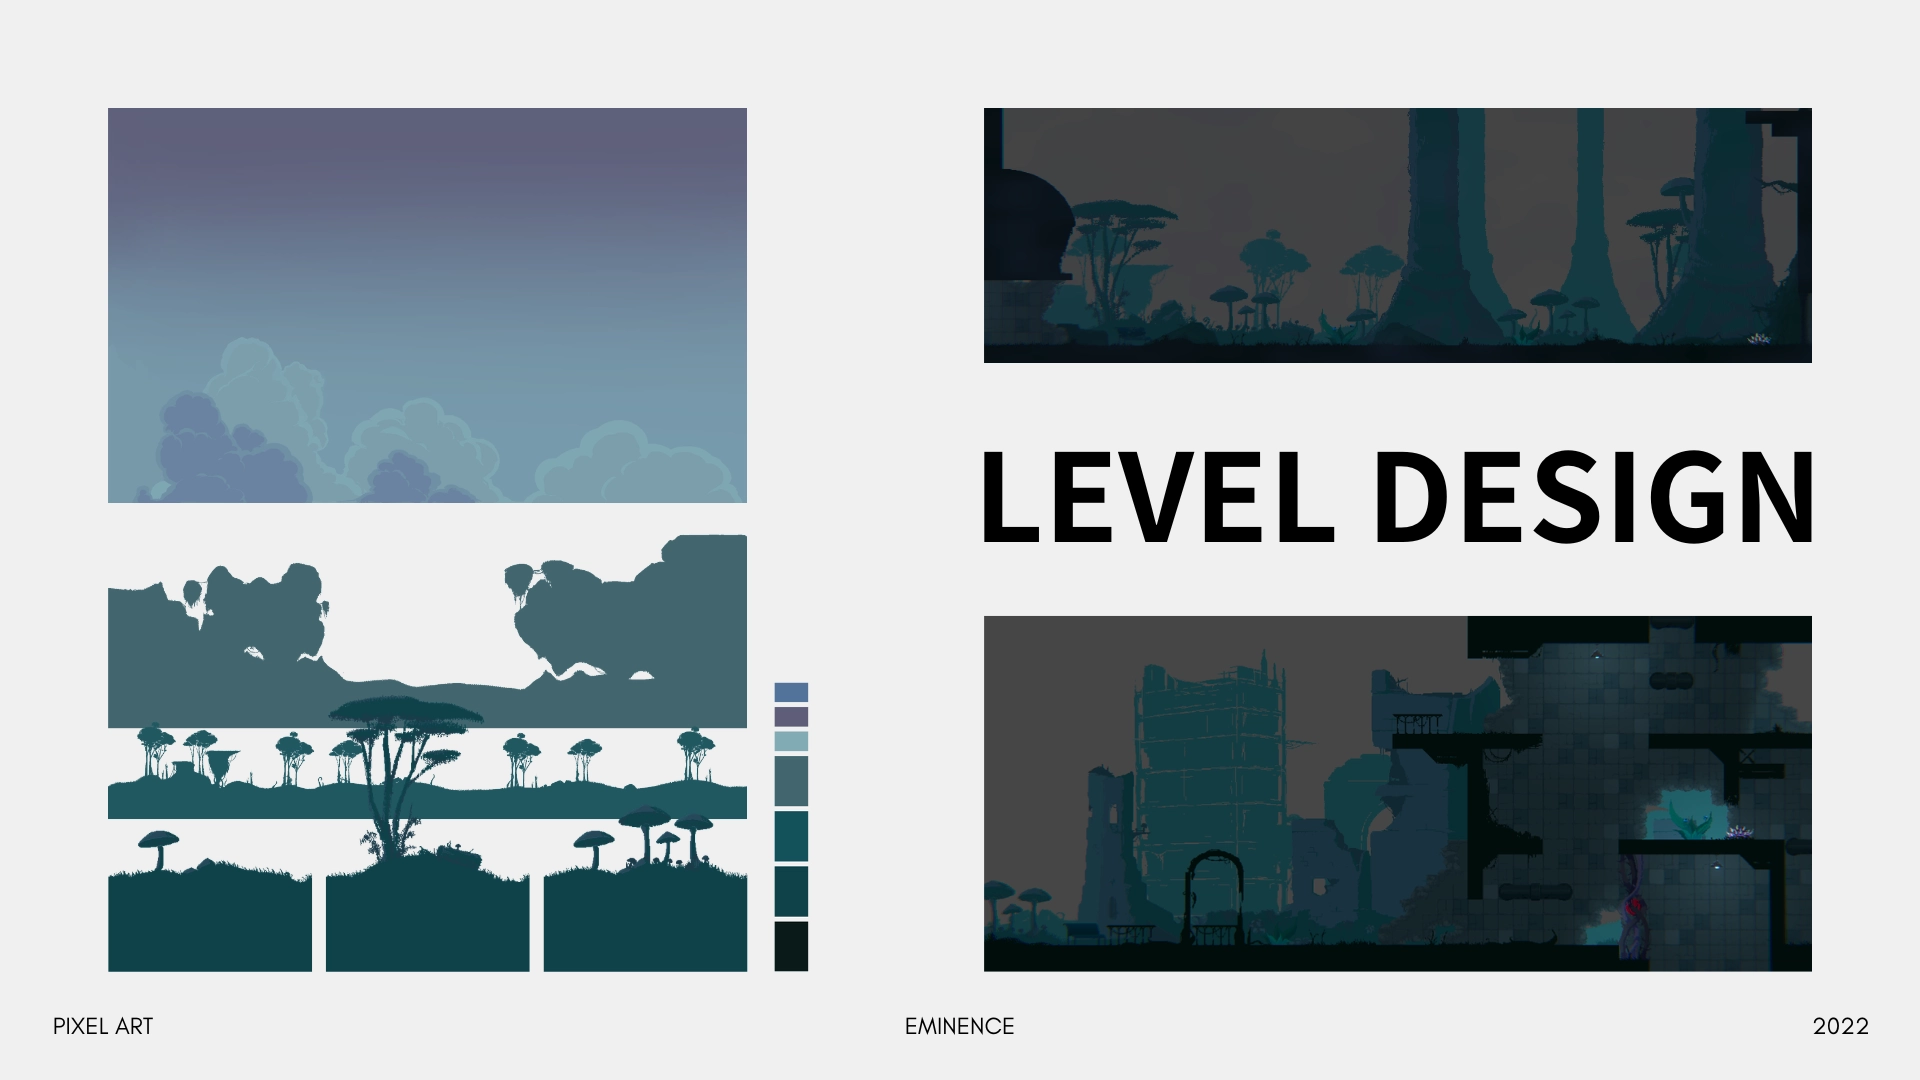
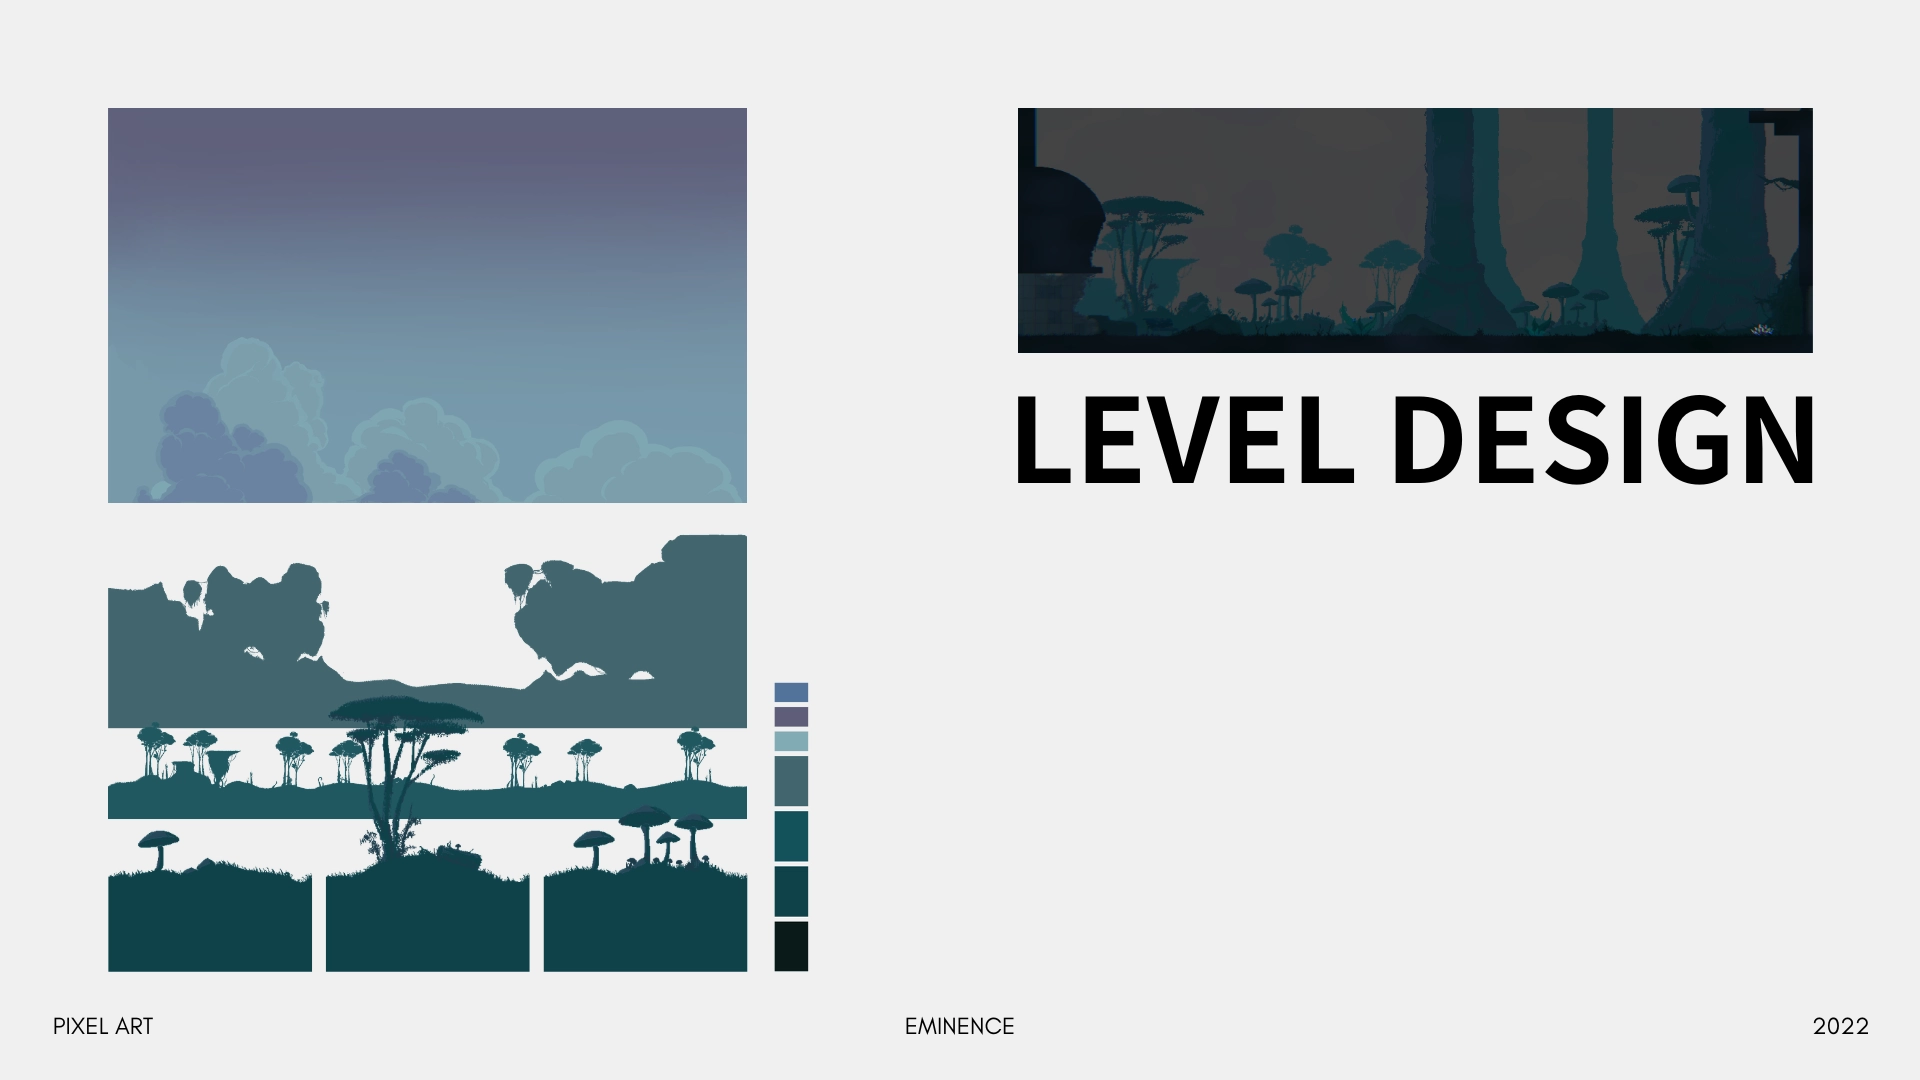
pixel art 更新

diff --git a/src/components/Pixelart.jsx b/src/components/Pixelart.jsx
@@ -32,6 +32,8 @@ const ppts = Object.entries(
 import dn1 from "../assets/other/dn-1.png";
 import dn2 from "../assets/other/dn-2.png";
 import EminenceAni from "../assets/Eminence/Eminence-CharaAni.png";
+import Parallax1 from "../assets/Eminence/Eminence-Para1.webm";
+import Parallax1Mp4 from "../assets/Eminence/Eminence-Para1.mp4";
 
 import CannonAnimation from "../assets/Moonwalk/CannonAni.png";
 import BlackholeAnimation from "../assets/Moonwalk/BlackholeAni.png";
@@ -143,9 +145,50 @@ export default function Pixelart() {
               <FadeUp>
                 <div className="group relative aspect-video overflow-hidden rounded-3xl border border-white/10 bg-white/5">
                   {/* 整個 scene 一起 scale */}
+                  <div className="absolute inset-0 transition duration-300 group-hover:scale-110">
+                    <img src={ppts[0]} className="h-full w-full object-cover" />
+                  </div>
+                </div>
+              </FadeUp>
+              <FadeUp>
+                <div className="group relative aspect-video overflow-hidden rounded-3xl border border-white/10 bg-white/5">
+                  {/* 整個 scene 一起 scale */}
+                  <div className="absolute inset-0 transition duration-300 group-hover:scale-110">
+                    <img src={ppts[1]} className="h-full w-full object-cover" />
+                  </div>
+                </div>
+              </FadeUp>
+              <FadeUp>
+                <div className="group relative aspect-video overflow-hidden rounded-3xl border border-white/10 bg-white/5">
+                  {/* 整個 scene 一起 scale */}
+                  <div className="absolute inset-0 transition duration-300 group-hover:scale-110">
+                    <img src={ppts[2]} className="h-full w-full object-cover" />
+                  </div>
+                </div>
+              </FadeUp>
+              <FadeUp>
+                <div className="group relative aspect-video overflow-hidden rounded-3xl border border-white/10 bg-white/5">
+                  {/* 整個 scene 一起 scale */}
+                  <div className="absolute inset-0 transition duration-300 group-hover:scale-110">
+                    <img src={ppts[3]} className="h-full w-full object-cover" />
+                  </div>
+                </div>
+              </FadeUp>
+              <FadeUp>
+                <div className="group relative aspect-video overflow-hidden rounded-3xl border border-white/10 bg-white/5">
+                  {/* 整個 scene 一起 scale */}
+                  <div className="absolute inset-0 transition duration-300 group-hover:scale-110">
+                    <img src={ppts[4]} className="h-full w-full object-cover" />
+                  </div>
+                </div>
+              </FadeUp>
+
+              <FadeUp>
+                <div className="group relative aspect-video overflow-hidden rounded-3xl border border-white/10 bg-white/5">
+                  {/* 整個 scene 一起 scale */}
                   <div className="absolute inset-0">
                     {/* 背景 */}
-                    <img src={ppts[0]} className="h-full w-full object-cover" />
+                    <img src={ppts[5]} className="h-full w-full object-cover" />
 
                     {/* overlay */}
                     <div className="absolute left-1/2 top-1/2 flex w-[61%] -translate-x-1/2 -translate-y-1/2 flex-row transition duration-300 group-hover:scale-[165%]">
@@ -160,7 +203,7 @@ export default function Pixelart() {
                   {/* 整個 scene 一起 scale */}
                   <div className="absolute inset-0 transition duration-300 group-hover:scale-110">
                     {/* 背景 */}
-                    <img src={ppts[1]} className="h-full w-full object-cover" />
+                    <img src={ppts[6]} className="h-full w-full object-cover" />
 
                     {/* overlay */}
                     <div className="absolute bottom-[10%] left-1/2 flex h-[80%] flex-row">
@@ -177,7 +220,7 @@ export default function Pixelart() {
                 <div className="group relative aspect-video overflow-hidden rounded-3xl border border-white/10 bg-white/5">
                   {/* 整個 scene 一起 scale */}
                   <div className="absolute inset-0 transition duration-300 group-hover:scale-110">
-                    <img src={ppts[2]} className="h-full w-full object-cover" />
+                    <img src={ppts[7]} className="h-full w-full object-cover" />
                   </div>
                 </div>
               </FadeUp>
@@ -185,7 +228,7 @@ export default function Pixelart() {
                 <div className="group relative aspect-video overflow-hidden rounded-3xl border border-white/10 bg-white/5">
                   {/* 整個 scene 一起 scale */}
                   <div className="absolute inset-0 transition duration-300 group-hover:scale-110">
-                    <img src={ppts[3]} className="h-full w-full object-cover" />
+                    <img src={ppts[8]} className="h-full w-full object-cover" />
                     {/* overlay */}
                     <div className="absolute right-[4%] top-[10%] flex h-[80%] w-[10%] flex-col">
                       <img
@@ -224,7 +267,7 @@ export default function Pixelart() {
                 <div className="group relative aspect-video overflow-hidden rounded-3xl border border-white/10 bg-white/5">
                   {/* 整個 scene 一起 scale */}
                   <div className="absolute inset-0 transition duration-300 group-hover:scale-110">
-                    <img src={ppts[4]} className="h-full w-full object-cover" />
+                    <img src={ppts[9]} className="h-full w-full object-cover" />
                   </div>
                 </div>
               </FadeUp>
@@ -232,16 +275,10 @@ export default function Pixelart() {
                 <div className="group relative aspect-video overflow-hidden rounded-3xl border border-white/10 bg-white/5">
                   {/* 整個 scene 一起 scale */}
                   <div className="absolute inset-0 transition duration-300 group-hover:scale-110">
-                    <img src={ppts[5]} className="h-full w-full object-cover" />
-                  </div>
-                </div>
-              </FadeUp>
-
-              <FadeUp>
-                <div className="group relative aspect-video overflow-hidden rounded-3xl border border-white/10 bg-white/5">
-                  {/* 整個 scene 一起 scale */}
-                  <div className="absolute inset-0 transition duration-300 group-hover:scale-110">
-                    <img src={ppts[6]} className="h-full w-full object-cover" />
+                    <img
+                      src={ppts[10]}
+                      className="h-full w-full object-cover"
+                    />
                   </div>
                 </div>
               </FadeUp>
@@ -250,7 +287,37 @@ export default function Pixelart() {
                 <div className="group relative aspect-video overflow-hidden rounded-3xl border border-white/10 bg-white/5">
                   {/* 整個 scene 一起 scale */}
                   <div className="absolute inset-0 transition duration-300 group-hover:scale-110">
-                    <img src={ppts[7]} className="h-full w-full object-cover" />
+                    {/* 背景 */}
+                    <img
+                      src={ppts[11]}
+                      className="h-full w-full object-cover"
+                    />
+
+                    {/* overlay */}
+                    <div className="absolute bottom-[10%] right-[5.6%] flex w-[41.3%] flex-row">
+                      <video
+                        autoPlay
+                        muted
+                        loop
+                        playsInline
+                        className="min-h-0 w-auto flex-1 object-cover"
+                      >
+                        <source src={Parallax1} type="video/webm" />
+                        <source src={Parallax1Mp4} type="video/mp4" />
+                      </video>
+                    </div>
+                  </div>
+                </div>
+              </FadeUp>
+
+              <FadeUp>
+                <div className="group relative aspect-video overflow-hidden rounded-3xl border border-white/10 bg-white/5">
+                  {/* 整個 scene 一起 scale */}
+                  <div className="absolute inset-0 transition duration-300 group-hover:scale-110">
+                    <img
+                      src={ppts[12]}
+                      className="h-full w-full object-cover"
+                    />
                   </div>
                 </div>
               </FadeUp>

diff --git a/src/pages/About.jsx b/src/pages/About.jsx
@@ -7,6 +7,7 @@ import Carousel from "../components/Carousel";
 import Footer from "../components/Footer";
 
 import avatar from "../assets/new bu.webp";
+import pixelBun from "../assets/other/pixelBun.webp";
 
 const socials = [
   {
@@ -192,7 +193,10 @@ export default function ProfilePage() {
             initial="hidden"
             whileInView="show"
             viewport={{ once: true }}
+            className="flex flex-col items-center"
           >
+            <img src={pixelBun} className="mb-16 w-56" />
+
             <h2 className="mb-8 text-center font-gugi text-5xl">About Me</h2>
 
             <p className="text-center text-lg leading-9 text-zinc-300">